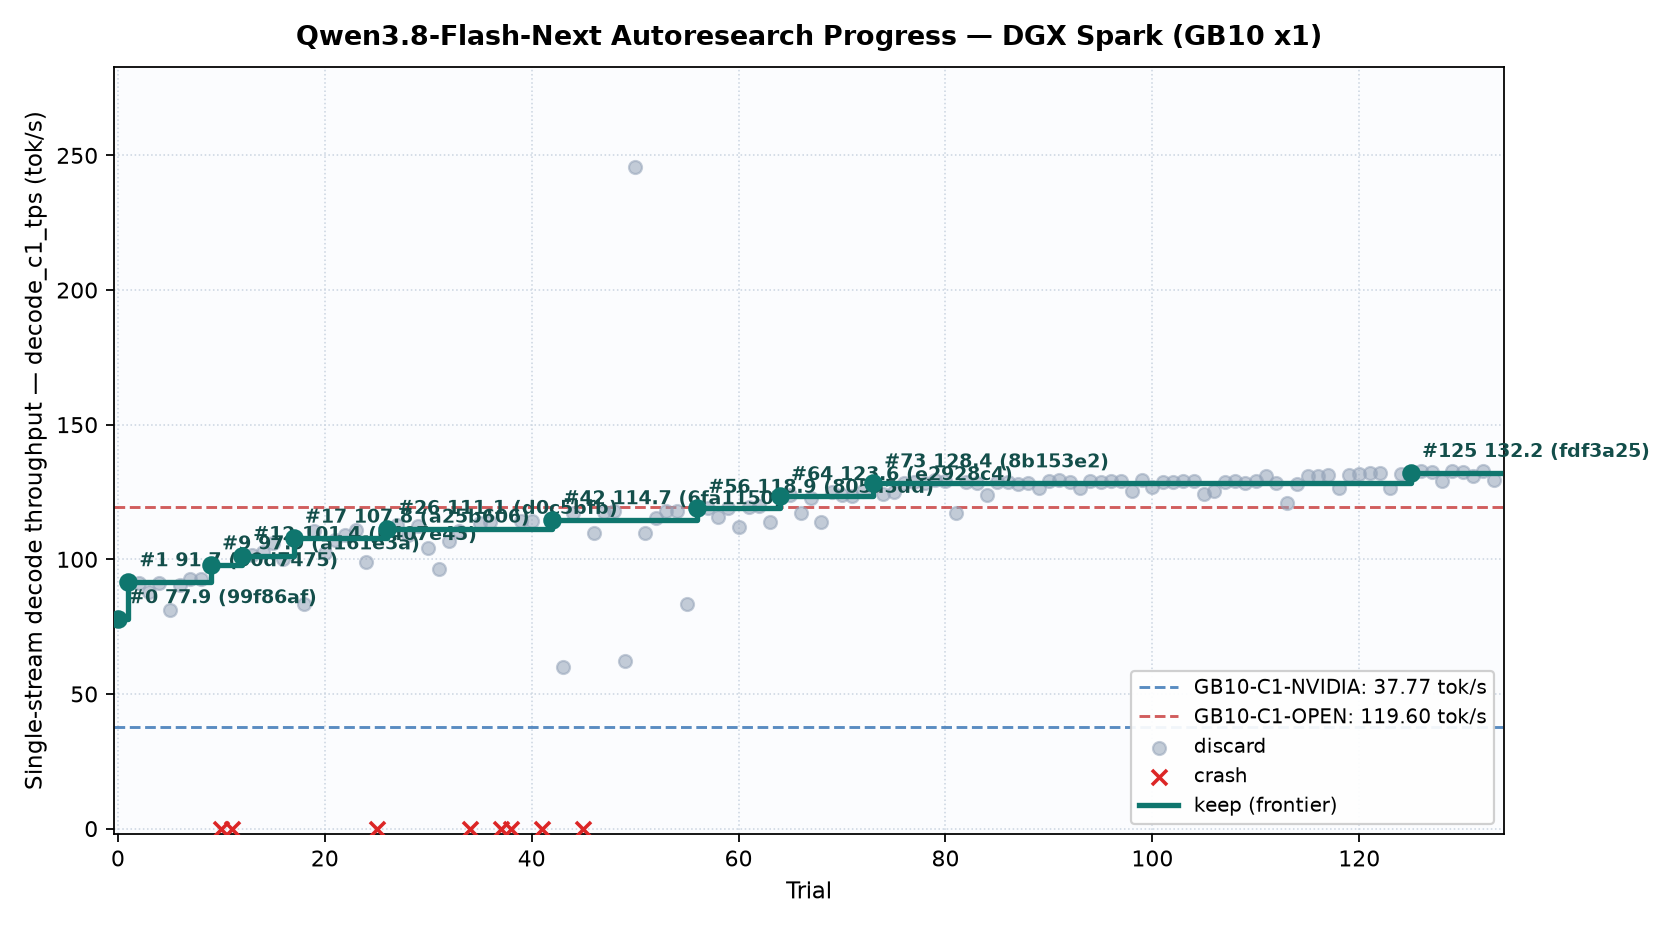
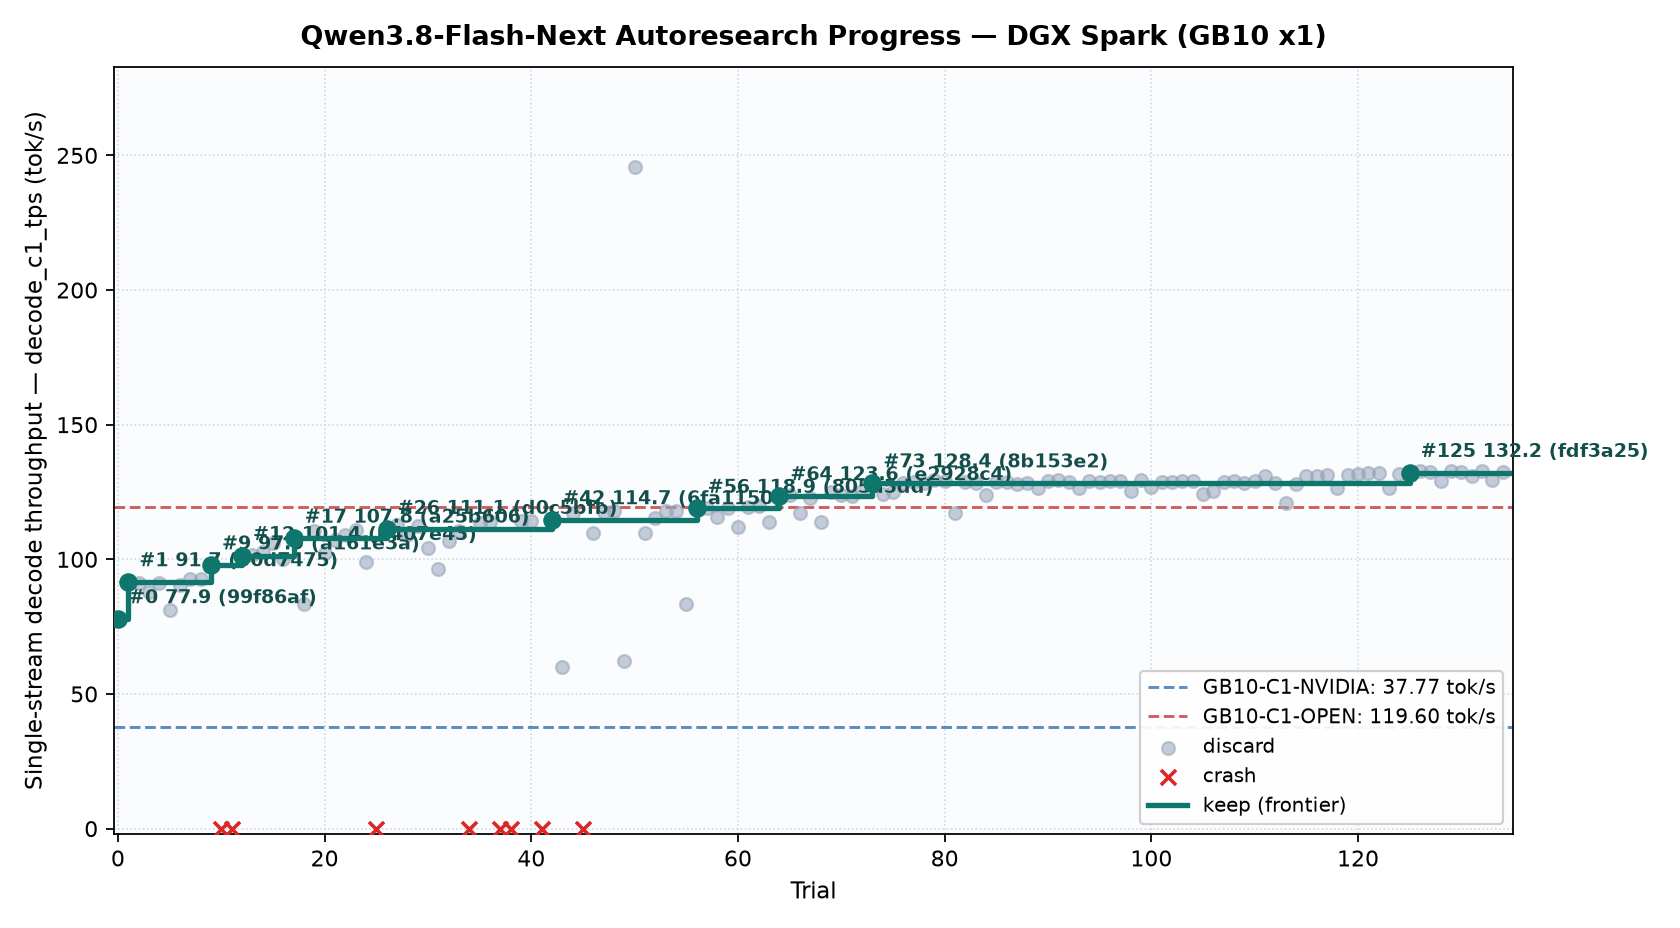
spark trial 134: discard

diff --git a/records/research-log.md b/records/research-log.md
@@ -163,3 +163,4 @@ Deprioritized: **3-bit expert weights** (Hibana +43% but GPQA -0.3, LCB -2.3; on
 | 2026-11-21 21:10 | 131 (new stack) | <https://github.com/vllm-project/vllm/issues/68711> | Checked all six release, commit and PR feeds. The vLLM RFC isolates draft quantization and measures its impact on speculative throughput. Trial 130 recorded 132.31 tok/s (discard). | Use the signed sum of reconstruction errors alongside squared error when selecting between two NVFP4 scales for draft expert down projections. Based on trial 126. |
 | 2026-11-21 21:21 | 132 (new stack) | <https://github.com/ashhart/TensorFold/pull/3405> | Checked release, commit and PR feeds for all six engines. TensorFold is testing full-vocabulary drafting for a different model on Metal. The current Spark keep gained with per-row draft normalization. | Retain the vocabulary and test a blend of RMS and mean absolute magnitude within each 64-weight proposal group. |
 | 2026-11-21 21:29 | 133 (new stack) | <https://github.com/dime-online/qwen3.8-Flash-DGX-UltraFast/blob/0c391a3e74b6a775cfe248691ca7fd855b1876a5/docs/CONFIGURATION.md> | Checked six release, commit and PR feeds. The published Spark recipe provides an English/code proposal vocabulary with 65536 distinct IDs. Trial 132 recorded 132.74 tok/s (discard). | Test its pinned ID set at the existing draft scan width, using the same mapping for proposal scores and token recovery. |
+| 2026-11-21 21:38 | 134 (new stack) | <https://github.com/vllm-project/vllm/commit/78f20a5a3454bcdcc0717cf63d26acf4075c1161> | Checked six release, commit and PR feeds. vLLM merged a fused GDN MTP kernel with 16-bit state. Trial 133 recorded 129.45 tok/s (discard). | Retain FP32 state and the parent reduction order. Double the lanes per state row to read contiguous 128-byte spans during verification. |
